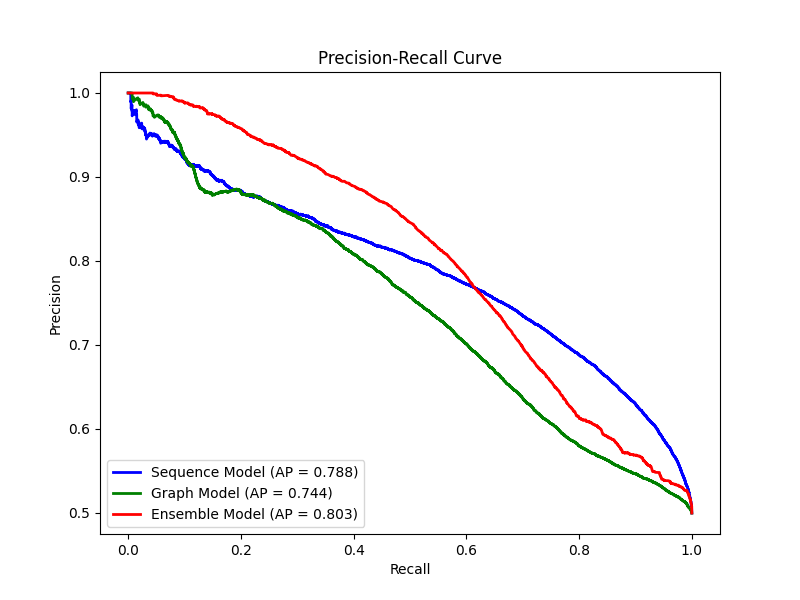
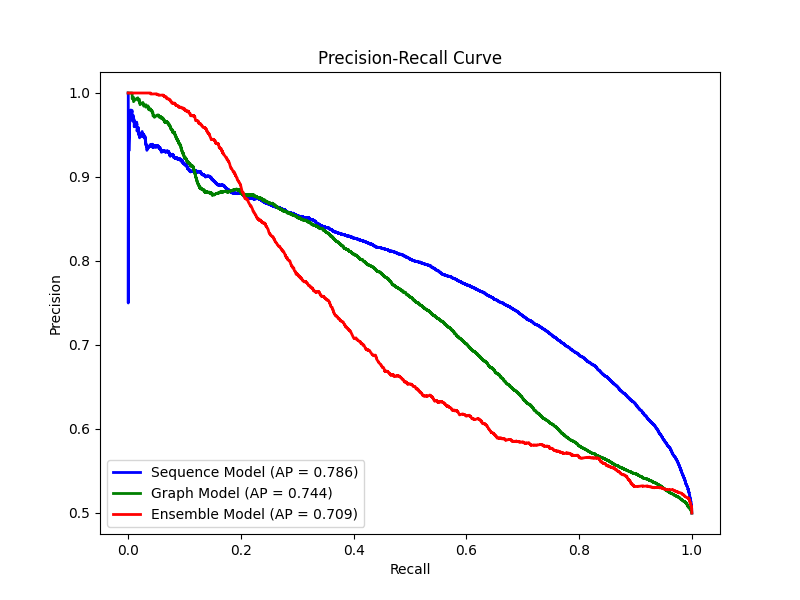
refined biological features and improved stacking logic

diff --git a/src/analysis/biological_managers.py b/src/analysis/biological_managers.py
@@ -15,7 +15,7 @@ class BiologicalManager:
     def _load_cache(self) -> pd.DataFrame:
         if self.cache_path.exists():
             return pd.read_csv(self.cache_path).fillna("")
-        return pd.DataFrame(columns=["protein_id", "uniprot_id", "localization", "pathways"])
+        return pd.DataFrame(columns=["protein_id", "uniprot_id", "localization", "pathways", "families", "domains"])
 
     def _save_cache(self):
         self.cache_df.to_csv(self.cache_path, index=False)
@@ -25,18 +25,30 @@ class BiologicalManager:
         Fetches localization and pathway info for proteins.
         protein_ids: List of ENSP IDs.
         """
+        # Identify IDs that are either truly missing OR have empty new fields
         existing = self.cache_df[self.cache_df["protein_id"].isin(protein_ids)]
-        found_ids = set(existing["protein_id"].unique())
-        missing_ids = [p for p in protein_ids if p not in found_ids]
-
-        if not missing_ids or not fetch_missing:
+        
+        # A protein needs fetching if it's not in cache OR if its new fields are empty
+        to_fetch_ids = []
+        for pid in protein_ids:
+            row = existing[existing["protein_id"] == pid]
+            if row.empty:
+                to_fetch_ids.append(pid)
+            else:
+                # Re-fetch if family/domain info is missing (migration case)
+                if not str(row.iloc[0].get("families", "")).strip() and not str(row.iloc[0].get("domains", "")).strip():
+                    to_fetch_ids.append(pid)
+                    # Remove from existing so it gets replaced
+                    existing = existing[existing["protein_id"] != pid]
+        
+        if not to_fetch_ids or not fetch_missing:
             return existing
 
         # Map ENSP -> UniProt
-        mapping = self.mapper.ensp_to_uniprot(missing_ids)
+        mapping = self.mapper.ensp_to_uniprot(to_fetch_ids)
         
         # Fallback: Search UniProt for missing mappings (e.g. if TSV is incomplete)
-        unmapped = [p for p in missing_ids if p not in mapping]
+        unmapped = [p for p in to_fetch_ids if p not in mapping]
         if unmapped and fetch_missing:
             print(f"Fallback: Searching UniProt for {len(unmapped)} unmapped IDs...")
             for p in unmapped:
@@ -61,7 +73,7 @@ class BiologicalManager:
                 # Fetch from UniProt
                 params = {
                     "query": f"accession:{uni}",
-                    "fields": "accession,cc_subcellular_location,cc_pathway",
+                    "fields": "accession,cc_subcellular_location,cc_pathway,cc_similarity,cc_domain",
                     "format": "json"
                 }
                 resp = requests.get(self.uniprot_url, params=params, timeout=10)
@@ -76,17 +88,24 @@ class BiologicalManager:
                                 for loc in comment.get("subcellularLocations", []):
                                     locs.append(loc.get("location", {}).get("value", ""))
                         
-                        # Extract Pathways
-                        paths = []
+                        # Extract Pathways, Families, Domains
+                        paths, families, domains = [], [], []
                         for comment in res.get("comments", []):
-                            if comment.get("commentType") == "PATHWAY":
+                            ctype = comment.get("commentType")
+                            if ctype == "PATHWAY":
                                 paths.append(comment.get("note", {}).get("texts", [{}])[0].get("value", ""))
+                            elif ctype == "SIMILARITY":
+                                families.append(comment.get("note", {}).get("texts", [{}])[0].get("value", ""))
+                            elif ctype == "DOMAIN":
+                                domains.append(comment.get("note", {}).get("texts", [{}])[0].get("value", ""))
                         
                         new_data.append({
                             "protein_id": ensp,
                             "uniprot_id": uni,
                             "localization": "; ".join(locs),
-                            "pathways": "; ".join(paths)
+                            "pathways": "; ".join(paths),
+                            "families": "; ".join(families),
+                            "domains": "; ".join(domains)
                         })
             except Exception as e:
                 print(f"Error fetching bio meta for {uni}: {e}")
@@ -98,61 +117,66 @@ class BiologicalManager:
 
         return self.cache_df[self.cache_df["protein_id"].isin(protein_ids)]
 
-    def check_localization_compatibility(self, p1_id: str, p2_id: str, fetch_missing: bool = True) -> Dict[str, Any]:
+    def check_biological_compatibility(self, p1_id: str, p2_id: str, fetch_missing: bool = True) -> Dict[str, Any]:
         """
-        Checks if two proteins have overlapping subcellular localizations and returns a score.
-        Score 1.0: Clear overlap
-        Score 0.5: Missing data or weak overlap (e.g. Nucleus vs Nucleolus)
-        Score 0.1: No overlap
+        Checks if two proteins have compatible subcellular localizations AND 
+        identifies 'Similarity Traps' (e.g. two co-chaperones with similar domains).
         """
         meta = self.get_bio_metadata([p1_id, p2_id], fetch_missing=fetch_missing)
         if len(meta) < 2:
-            return {"compatible": True, "score": 0.5, "reason": "Insufficient localization data", "p1_locs": [], "p2_locs": []}
+            return {"compatible": True, "score": 0.5, "reason": "Insufficient biological data", "p1_locs": [], "p2_locs": []}
         
         row1 = meta[meta["protein_id"] == p1_id].iloc[0]
         row2 = meta[meta["protein_id"] == p2_id].iloc[0]
         
+        # 1. Localization Check
         l1 = set([x.strip().lower() for x in str(row1["localization"]).split(";") if x.strip()])
         l2 = set([x.strip().lower() for x in str(row2["localization"]).split(";") if x.strip()])
         
-        if not l1 or not l2:
-            return {"compatible": True, "score": 0.5, "reason": "Missing localization for one or both proteins", "p1_locs": list(l1), "p2_locs": list(l2)}
+        loc_score = 0.5
+        if l1 and l2:
+            intersection = l1.intersection(l2)
+            if len(intersection) > 0:
+                loc_score = 1.0
+                # Nucleolar bias correction
+                is_p1_nucleolar = any("nucleolus" in loc for loc in l1)
+                is_p2_nucleolar = any("nucleolus" in loc for loc in l2)
+                if is_p1_nucleolar != is_p2_nucleolar: loc_score = 0.7
+            else:
+                loc_score = 0.1
         
-        intersection = l1.intersection(l2)
+        # 2. Similarity Trap Detection (TTC1/DNAJC7 Guard)
+        trap_penalty = 0.0
+        f1, f2 = str(row1.get("families", "")).lower(), str(row2.get("families", "")).lower()
+        d1, d2 = str(row1.get("domains", "")).lower(), str(row2.get("domains", "")).lower()
         
-        # High-level compatibility: Shared location
-        if len(intersection) > 0:
-            # Granular Check: Nucleus vs Nucleolus
-            # If one is ONLY in the nucleolus and the other is in the nucleus but NOT nucleolus
-            is_p1_nucleolar = any("nucleolus" in loc for loc in l1)
-            is_p2_nucleolar = any("nucleolus" in loc for loc in l2)
+        # Rule: If they share "Chaperone" or "TPR" language but aren't in the same complex
+        # Note: This is a heuristical penalty to force the Graph model to be the tie-breaker
+        chaperone_keywords = ["chaperone", "tpr", "tetratricopeptide", "heat shock", "dna j", "hsp"]
+        is_p1_chap = any(k in f1 or k in d1 for k in chaperone_keywords)
+        is_p2_chap = any(k in f2 or k in d2 for k in chaperone_keywords)
+        
+        reason = "Shared localization found" if loc_score > 0.5 else "Localization mismatch"
+        
+        if is_p1_chap and is_p2_chap:
+            # Trap detected! Both are chaperones/TPR proteins. 
+            # We penalize the bio-score to force the ensemble to rely on Graph evidence.
+            trap_penalty = 0.4
+            loc_score = max(0.2, loc_score - trap_penalty)
+            reason = "Potential 'Similarity Trap' detected: both proteins are co-chaperones/TPR proteins. Reducing confidence in absence of strong graph evidence."
             
-            if is_p1_nucleolar != is_p2_nucleolar:
-                # One is nucleolar, the other isn't. Weakened compatibility.
-                return {
-                    "compatible": True, 
-                    "score": 0.7, 
-                    "intersection": list(intersection),
-                    "reason": "One protein is nucleolar-specific; partial overlap in nucleus.",
-                    "p1_locs": list(l1), "p2_locs": list(l2)
-                }
-            
-            return {
-                "compatible": True, 
-                "score": 1.0, 
-                "intersection": list(intersection),
-                "reason": "Strong shared localization found",
-                "p1_locs": list(l1), "p2_locs": list(l2)
-            }
-        
         return {
-            "compatible": False,
-            "score": 0.1,
-            "intersection": [],
+            "compatible": loc_score > 0.3,
+            "score": loc_score,
+            "reason": reason,
             "p1_locs": list(l1),
             "p2_locs": list(l2),
-            "reason": "No shared subcellular localization found"
+            "trap_penalty": trap_penalty
         }
+
+    def check_localization_compatibility(self, p1_id: str, p2_id: str, fetch_missing: bool = True) -> Dict[str, Any]:
+        """Backwards compatibility alias for the new logic"""
+        return self.check_biological_compatibility(p1_id, p2_id, fetch_missing)
     def calculate_pathway_vulnerability(self, p1_id: str, p2_id: str, delta_score: float) -> Dict[str, Any]:
         """
         Estimates the risk to biological pathways if this interaction is disrupted.

diff --git a/src/models/ensemble_model.py b/src/models/ensemble_model.py
@@ -49,12 +49,14 @@ class PPIEnsemble:
         """
         X = self._build_features(base_preds_1, base_preds_2, bio_features)
         
-        # Give higher weight to hard negatives: where seq says YES (>0.8) and Graph says NO (<0.5) but label is NO
+        # Give higher weight to hard negatives: where seq says YES (>0.8) and label is NO 
+        # and there's a significant gap (>0.2) with the Graph Model's prediction.
         weights = np.ones(len(labels))
-        hard_negatives = (base_preds_1 > 0.8) & (base_preds_2 < 0.5) & (labels == 0)
-        weights[hard_negatives] = 10.0  # Force XGBoost to care 10x more about these specific hard boundaries!
+        seq_graph_gap = base_preds_1 - base_preds_2
+        hard_negatives = (base_preds_1 > 0.8) & (labels == 0) & (seq_graph_gap > 0.2)
+        weights[hard_negatives] = 15.0  # Force XGBoost to care more about these specific traps!
         
-        print(f"Training XGBoost Meta-Learner with {X.shape[1]} features...")
+        print(f"Training XGBoost Meta-Learner with {X.shape[1]} features and {np.sum(weights > 1)} high-weight samples...")
         self.meta_model = xgb.XGBClassifier(
             n_estimators=100,
             max_depth=4,

diff --git a/scripts/analyze_fp.py b/scripts/analyze_fp.py
@@ -68,7 +68,8 @@ def analyze_case(p1, p2):
             
     # Ensemble
     ens = PPIEnsemble(str(MODELS_DIR / "ensemble_model.pkl"))
-    bio_score = 1.0 if loc1 == loc2 and loc1 != "" else 0.0
+    bio_comp = bio_mgr.check_biological_compatibility(p1, p2)
+    bio_score = bio_comp.get("score", 0.5)
     
     # 2. SHAP Explanation
     explainer = PPIExplainer(str(MODELS_DIR / "ensemble_model.pkl"))

diff --git a/scripts/test_fp.py b/scripts/test_fp.py
@@ -15,7 +15,7 @@ from src.data.feature_extraction import ESMFeatureExtractor
 from src.utils.bio_encoder import BioFeatureEncoder
 
 def main():
-    p1 = "ENSP00000265350"
+    p1 = "ENSP00000226574"
     p2 = "ENSP00000326767"
     device = "cuda:0" if torch.cuda.is_available() else "cpu"
     print(f"Device: {device}")
